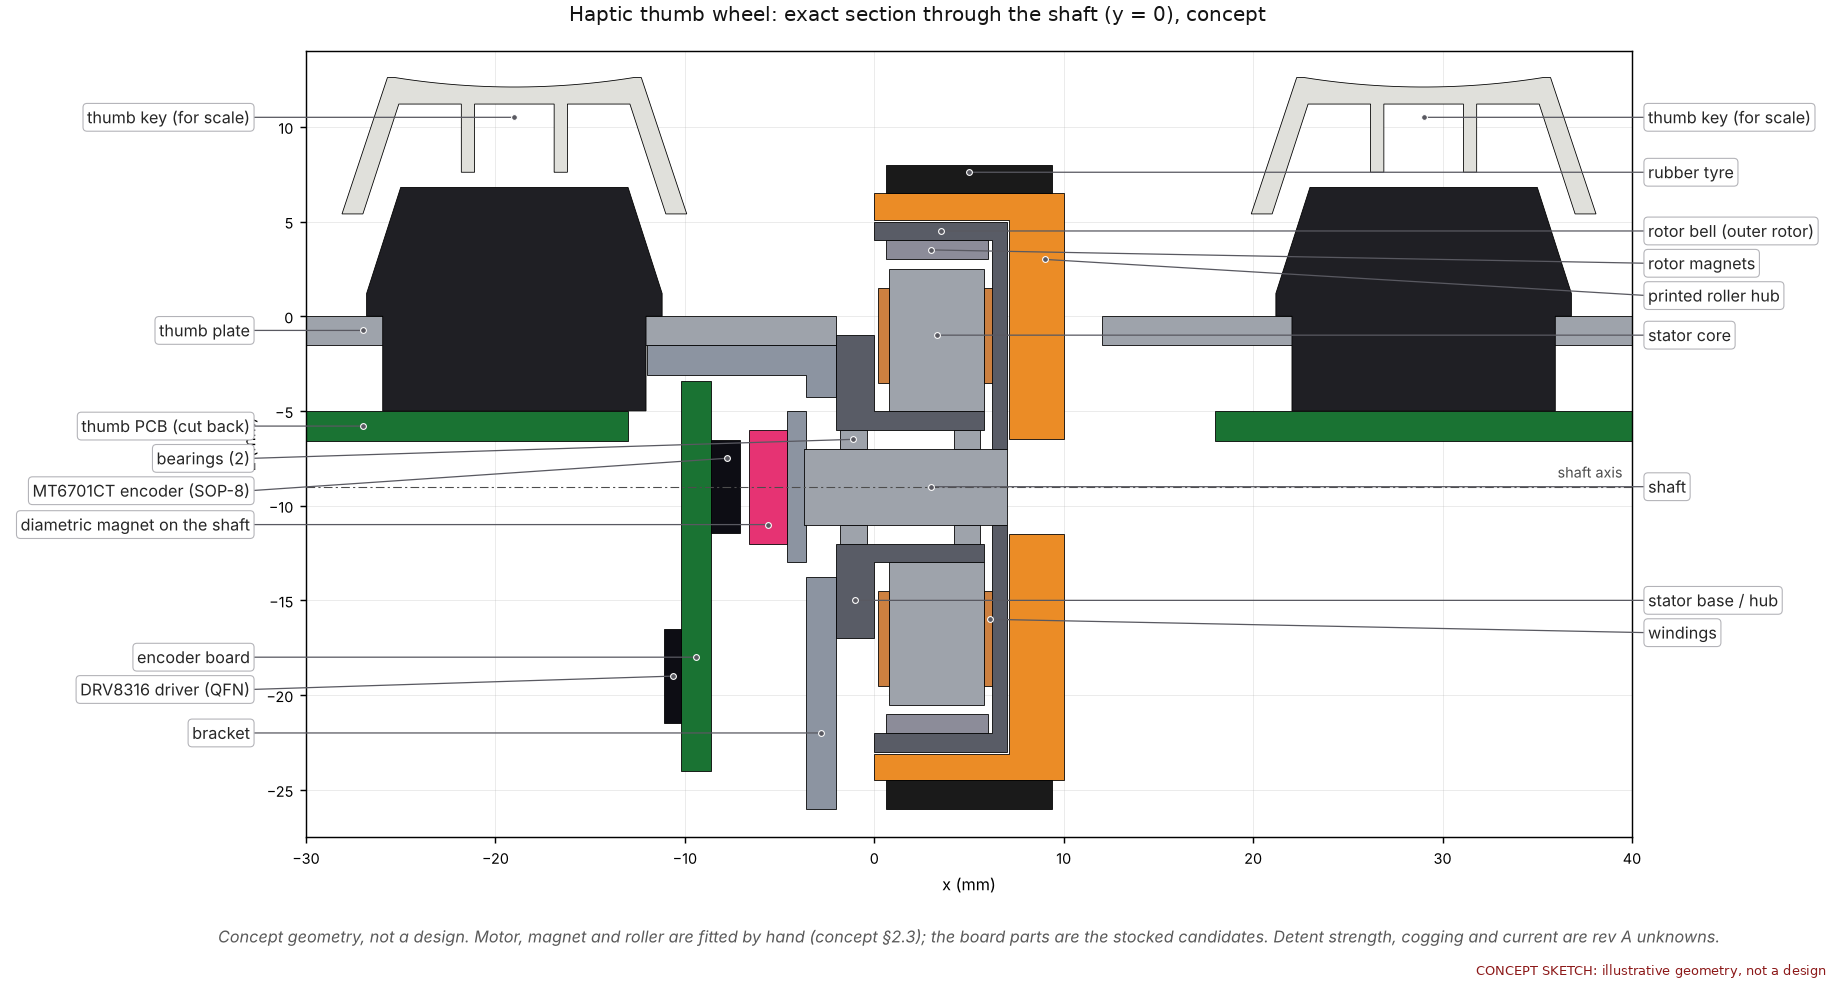
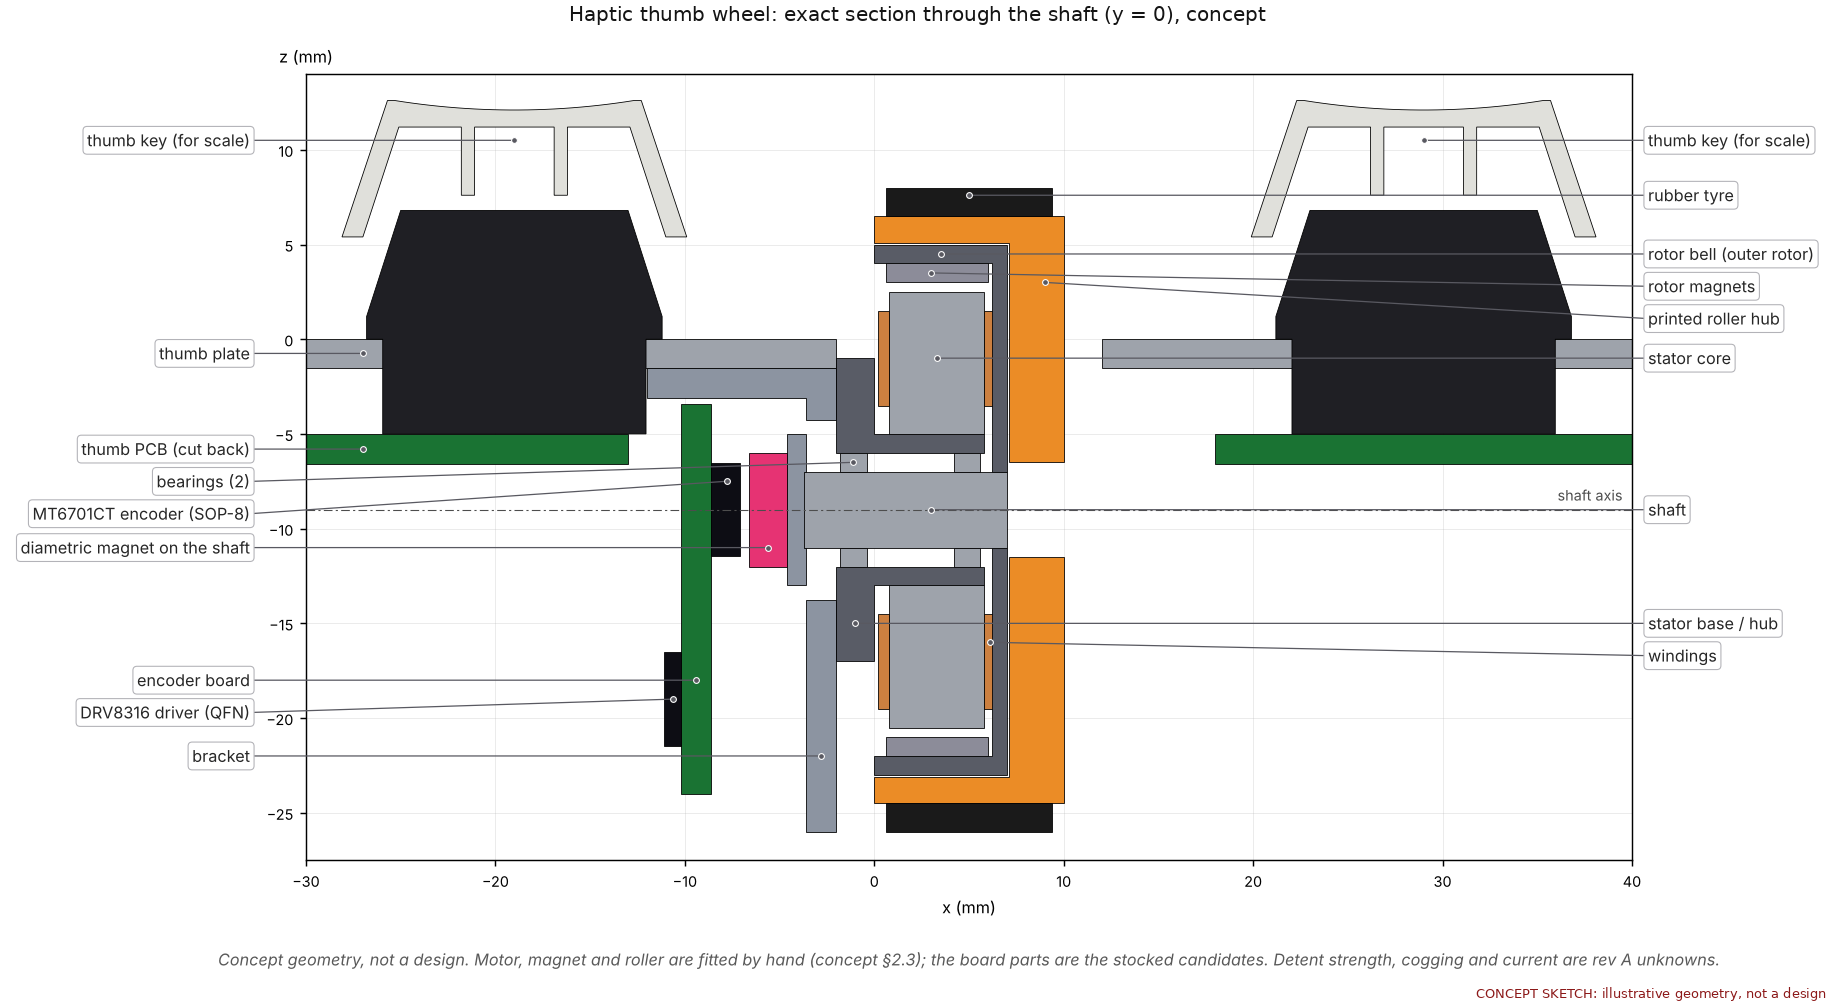
Keyboard visuals: first QA pass fixes
Visual QA fixed 14 image defects in the generator scripts (a wrong
section reference, a sign error on an axis, crossed leaders, hidden or
colliding labels, legend swatches) and refreshed the gallery copies.
Site QA fixed the mindmap's dark-mode text, subgraph titles overlapped
by node borders in three diagrams, and a dead "open it on its own" link.

A second pass (legibility, caption honesty, click-to-zoom) follows.

Claude-Session: https://claude.ai/code/session_018T6HA5VDDcFqFaRtqcECCB

diff --git a/keyboard/hardware/concept/render_keyboard.py b/keyboard/hardware/concept/render_keyboard.py
@@ -239,7 +239,8 @@ def fig_top(hl, hr, ml, mr):
         outline(ax, KM.moved([("lra", nm["LRA"], "lra")], m)[0][1], cam)
         callout(ax, t, "thumb shear key\n(dashed circle: the LRA,\ninside, under it)", t + off, ha="center")
     nm = dict((n, s) for n, s, c, g in hl.parts)
-    for tag, off in (("A", (-6, 34)), ("B", (40, 22))):
+    # A sits right of B in this view: A's label up and right, B's up and left, so the leaders do not cross
+    for tag, off in (("A", (22, 24)), ("B", (-22, 38))):
         u = outline(ax, KM.moved([("u", nm[f"USB-C {tag}"], "usb")], ml)[0][1], cam)
         c = u.mean(0)
         callout(ax, c, f"USB-C {tag} (back wall)", c + off, ha="center")
@@ -304,8 +305,8 @@ def fig_side(hl, hr):
             a = np.radians(row * col["alpha"])
             ax2.plot([0, r * np.sin(a)], [r, r - r * np.cos(a)], ls=":", lw=0.8, color=HL)
         ax2.plot([0], [r], marker="+", ms=11, mew=1.5, color=HL)
-        ax2.text(3, r + 1.5, f"flexion centre (sketch)\nR = {r:.0f} mm at the plate, {col['alpha']:.1f}° per row",
-                 fontsize=8.5, color=HL, va="bottom")
+        ax2.text(3, r + 1.5, f"flexion centre (sketch)\nR = {r:.0f} mm at the plate, {col['alpha']:.1f}° per row\n"
+                 f"(caps {KM.PITCH + 0.25:.2f} mm apart at their skirts)", fontsize=8.5, color=HL, va="bottom")
         ka = np.radians(col["alpha"])
         cap_pt = (r * np.sin(ka) + 2.0, r - r * np.cos(ka) + 12.0)
         ax2.annotate("keycaps (rest)", xy=cap_pt, xytext=(cap_pt[0] + 14, cap_pt[1] + 16), fontsize=8.5,
@@ -404,7 +405,8 @@ def fig_internals(hl):
     rows = [("column board 4", (0.5, 0.5, 1.0), "column boards: one per column,\n0.8 mm, bent to the column's arc"),
             ("column board 0", (0.5, 0.5, 1.0), "inner index column's board"),
             ("battery", (0.3, 0.3, 1.0), "LiPo battery (size not chosen)"),
-            ("link column 4", (0.5, 0.5, 0.5), "flex links from each column board\nto the main board"),
+            # a run that shows between two boards (link column 4's centre is hidden under a board)
+            ("link column 5 run", (0.5, 0.5, 0.5), "flex links from each column board\nto the main board"),
             ("LRA", (0.5, 0.5, 1.0), "coin LRA on the floor,\nunder the thumb home key"),
             ("USB-C B", (0.5, 1.0, 1.0), "USB-C A and B at the back wall\n(two-host KVM)"),
             ("MCU module", (0.5, 0.5, 1.0), "main board: MCU module\n(chip not chosen)"),
@@ -603,7 +605,7 @@ def fig_gate(hl):
     ax.set_aspect("equal")
     ax.grid(True, lw=0.3, alpha=0.5)
     ax.tick_params(labelsize=7.5)
-    ax.set_xlabel(f"across the rows at key {k.name} (mm)", fontsize=8.5)
+    ax.set_xlabel(f"across the columns at key {k.name} (mm, + toward the index column)", fontsize=8.5)
     ax.set_ylabel(f"along {k.name}'s axis, from its plate (mm)", fontsize=8.5)
     ax.set_title(f"(c) The tightest spot the gate found: key {k.name} (middle column, top row),\nwhich sits "
                  "deeper than the index column beside it (exact cut)", fontsize=11)
@@ -617,7 +619,8 @@ def fig_gate(hl):
     ax.barh(y, vals, height=0.62, color=cols, edgecolor="white", linewidth=2)
     for yi, r in zip(y, top):
         tag = "  below margin" if r["d"] < margin else ""
-        ax.text(r["d"] + 0.03, yi, f"{r['d']:.2f} mm{tag}", va="center", fontsize=8.5, color=INK)
+        ax.text(r["d"] + 0.03, yi, f"{r['d']:.2f} mm{tag}", va="center", fontsize=8.5, color=INK, zorder=5,
+                bbox=dict(boxstyle="square,pad=0.15", fc="white", ec="none"))     # over the margin line
     ax.set_yticks(y)
     ax.set_yticklabels([_row_text(r) for r in top], fontsize=8.5)
     ax.axvline(margin, color=(0.3, 0.3, 0.3), lw=1.0, ls="--")

diff --git a/keyboard/hardware/concept/render_mechanisms.py b/keyboard/hardware/concept/render_mechanisms.py
@@ -459,7 +459,7 @@ def shear_cutaway():
         ("TMAG5170 3-axis Hall sensor (VSSOP-8)\nreads Bx, By, Bz under the magnet", (1.4, -1.0, 0.9), "R"),
     ]
     tags = [("Z press", (0, 0, 26.0), 0, 14), ("X push", (-19.5, 0, 14.5), -6, 14),
-            ("Y push", (21.0, -12.0, 21.0), 10, -14)]
+            ("Y push", (21.0, -12.0, 21.0), 44, -14)]
     view3d(os.path.join(OUT, "mech_shear_key_cutaway.png"), [items, arrows], elev=20, azim=-58, labels=labels,
            tags=tags, size=(12, 8.6), zoom=0.74, max_edge=0.8,
            title="Shear key: a stem guide hung on flexure posts over a 3-axis Hall sensor (concept)")
@@ -530,7 +530,7 @@ def shear_section():
         (f"red circle: where the magnet centre\ncan go (\u00b1{lat:.1f} mm, the roof-hole stop)",
          (lat * 0.7, -lat * 0.7), "R"),
         ("dashed: TMAG5170 below (z 0-1 mm)", (1.5, -1.2), "R"),
-        ("housing", (6.9, -6.0), "R"),
+        ("housing", (6.2, -3.5), "R"),
     ]
     label2d(fig, a3, lab3, right_px=18)
     fig.canvas.draw()
@@ -604,6 +604,8 @@ def wheel_section():
     fig = plt.figure(figsize=(17, 8.4), dpi=DPI)
     zc = M.WHEEL_Z
     ax = section_axes(fig, [0.20, 0.09, 0.60, 0.84], items, Plane.XZ, ("X", "Z"), (-30.0, 40.0), (-27.5, 14.0))
+    ax.set_ylabel("")              # the left callout column would hide it: the unit goes at the top of the axis
+    ax.text(-30.0, 14.4, "z (mm)", ha="center", va="bottom", fontsize=9)
     ax.axhline(zc, color=(0.3, 0.3, 0.3), lw=0.6, ls=(0, (8, 3, 2, 3)), zorder=30)
     ax.text(39.5, zc + 0.3, "shaft axis", fontsize=8, color=(0.3, 0.3, 0.3), ha="right", va="bottom")
     labels = [
@@ -730,7 +732,7 @@ def lra_3d_panel(path):
         ("coin LRA, about 10 mm across\nand 2.7 mm thick (cut in half)", (2.0, 0.0, 3.6), "R"),
         ("slot all round the cradle", (9.2, 2.0, 2.4), "R"),
         ("case floor (printed)", (12.0, 6.0, 2.4), "R"),
-        ("cradle, printed with the case", (-6.6, 0.0, 3.0), "L"),
+        ("cradle, printed with the case", (-2.5, 0.0, 1.1), "L"),
         ("flexure arm: the only path\nfrom cradle to case", (-8.2, 0.3, 2.4), "L"),
         ("TPU foot", (-11.0, 0.0, -0.8), "L"),
         ("desk", (-12.0, -6.0, -1.5), "L"),
@@ -746,15 +748,16 @@ def lra_plan_panel(path):
     zc = 0.5 * (c["arm_z"][0] + c["arm_z"][1])
     ax = section_axes(fig, [0.34, 0.10, 0.50, 0.80], items, Plane.XY.offset(zc), ("X", "Y"), (-12.5, 12.5),
                       (-12.5, 12.5))
-    ax.set_ylabel("")
-    ax.set_title(f"plan section at z = {zc:.1f} mm, through the arms", fontsize=11)
+    ax.set_ylabel("")              # the left callout column would hide it: the unit goes at the top of the axis
+    ax.text(-12.5, 12.9, "y (mm)", ha="center", va="bottom", fontsize=9)
+    ax.set_title(f"plan section at z = {zc:.1f} mm, through the arms", fontsize=11, pad=16)
     labels = [
         ("coin LRA", (-2.0, -2.0), "L"),
         ("cradle", (-5.2, -4.0), "L"),
-        ("case floor", (-11.0, 10.0), "L"),
+        ("case floor", (-11.0, 11.5), "L"),
         ("three flexure arms, each about\n95\u00b0 of arc (illustrative)",
          (8.2 * np.cos(np.radians(150)), 8.2 * np.sin(np.radians(150))), "L"),
-        ("arm root in the floor", (9.5 * np.cos(np.radians(183)), 9.5 * np.sin(np.radians(183))), "L"),
+        ("arm root in the floor", (9.5 * np.cos(np.radians(184)), 9.5 * np.sin(np.radians(184))), "L"),
         ("slot (air)", (9.2 * np.cos(np.radians(20)), 9.2 * np.sin(np.radians(20))), "R"),
         ("arm root in the cradle", (7.2 * np.cos(np.radians(334)), 7.2 * np.sin(np.radians(334))), "R"),
     ]

diff --git a/keyboard/docs/figures/physics.py b/keyboard/docs/figures/physics.py
@@ -317,7 +317,7 @@ def fig_he_field():
           " − z/√(z²+R²) ], z from the magnet face to a point sensor on the axis.\n"
           f"Parameters (illustrative, not decisions): Br = {BR} T (about N38–N40), {HE_GAP_REST} mm from magnet "
           f"face to Hall element at rest, {HE_TRAVEL:.0f} mm to the hard stop, then a {HE_SQUASH} mm compliant zone "
-          "(concept §2.1, §7).\n"
+          "(concept §7).\n"
           "Not modelled: steel nearby, neighbouring keys' magnets, stray fields, temperature (NdFeB loses about "
           "0.1 % of Br per K), magnet tolerances, tilt.\n"
           "The noise-to-travel figures assume a 0.1 mT noise floor, only to show the scale. The sensor ranges are "
@@ -369,7 +369,7 @@ def fig_neighbour():
     axa.text(HE_TRAVEL + HE_SQUASH / 2, 0.196, "compliant\nzone", ha="center", va="top", fontsize=8, color=INK2)
     axb.text(HE_TRAVEL + HE_SQUASH / 2, 280, "compliant\nzone", ha="center", va="top", fontsize=8, color=INK2)
     axa.set_xlabel("the neighbour's travel (mm)")
-    axa.set_ylabel("change in this key's Bz (mT)")
+    axa.set_ylabel("fall in this key's Bz (mT)")
     axa.legend(loc="upper left")
     axa.text(0.08, 0.113, f"At rest the neighbours already add an offset\n(row neighbour −{-rows[0][1]:.2f} mT), "
              "which calibration removes.\nThe reading falls as a neighbour is pressed:\nits return flux opposes "
@@ -757,12 +757,12 @@ def fig_haptic():
     ax[2].plot(th, slots_profile(th), color=C3, lw=2.0)
     for i in range(9):
         dot(ax[2], i * 45, 0, C3, size=6)
-        ax[2].text(i * 45, -0.92, f"slot {i % 8 + 1}", ha="center", va="top", fontsize=8, color=INK)
     ax[2].text(0.5, 0.97, "8 slots, 45° apart: a spring into each slot, saturating 8° out;\n"
                "it snaps over to the next slot at each midpoint (the vertical jumps)",
                transform=ax[2].transAxes, ha="center", va="top", fontsize=8, color=INK2, bbox=BOX)
     ax[2].set_xlim(-8, 368)
     ax[2].set_xticks(range(0, 361, 45))
+    ax[2].set_xticklabels([f"{i * 45}\nslot {i % 8 + 1}" for i in range(9)])    # the slots sit on the ticks
     ax[2].set_xlabel("wheel angle (degrees)")
     panel_title(ax[2], "(c) Game weapon wheel: N slots (here 8)")
 

diff --git a/keyboard/hardware/concept/render_testbed.py b/keyboard/hardware/concept/render_testbed.py
@@ -443,7 +443,7 @@ def fig_top():
     callout(ax, (19.0, 19.0), "KVM (optional, ghost):\nhost-B controller,\nisolator, USB-C B", (-34, 16))
     callout(ax, (1.0, 94.5), "USB-C", (-22, 104))
     callout(ax, M.MCU_XY, "MCU: candidate\nAT32F405", (-30, 84))
-    callout(ax, (17.0, 62.0), "power + charging\n(caliper's power sheets)", (-34, 64))
+    callout(ax, (17.0, 62.0), "power + charging, battery\nconnector (caliper's power sheets)", (-34, 64))
     callout(ax, (16.0, 47.0), "injection (INJ) and\ncurrent-sense test pads", (-34, 44))
     callout(ax, (29.5, 105.0), "latency-rig header\n(marker GPIO)", (12, 124))
     note(ax, -66, -28, "Top view to scale: motherboard about 160 x 110 mm. The keycaps hide the key sensors (see the "
@@ -600,11 +600,11 @@ def fig_coil_coupon():
             ax.add_patch(Circle((lx + 1.5, y), 0.7, fc="none", ec=(0.4, 0.4, 0.4), lw=0.8, ls=(0, (2, 1.5))))
         elif kind == "ldc":
             ax.add_patch(Rectangle((lx + 0.7, y - 0.75), 1.5, 1.5, fc=(0.02, 0.02, 0.02), ec=(0.5, 0.5, 0.5), lw=0.6))
-        elif kind == "hdr":
-            ax.add_patch(Rectangle((lx + 0.3, y - 0.7), 2.4, 1.4, fc="none", ec=(0.5, 0.5, 0.5), lw=0.7,
+        elif kind == "hdr":       # a tall strip, like the header outline on the board
+            ax.add_patch(Rectangle((lx + 1.0, y - 0.8), 1.0, 1.6, fc="none", ec=(0.5, 0.5, 0.5), lw=0.7,
                                    ls=(0, (3, 2))))
-        else:
-            ax.add_patch(Rectangle((lx + 0.3, y - 0.7), 2.4, 1.4, fc="none", ec=(0.45, 0.45, 0.45), lw=0.8,
+        else:                     # a square, like the switch footprints on the board
+            ax.add_patch(Rectangle((lx + 0.75, y - 0.75), 1.5, 1.5, fc="none", ec=(0.45, 0.45, 0.45), lw=0.8,
                                    ls=(0, (1.5, 1.5))))
         ax.text(lx + 4.0, y, txt, fontsize=fs_mm(0.95), color=INK, va="center")
     # inset: one 4-layer coil taken apart layer by layer

diff --git a/keyboard/docs/research.md b/keyboard/docs/research.md
@@ -27,6 +27,8 @@ config:
   flowchart:
     nodeSpacing: 14
     rankSpacing: 40
+    # without it the top nodes' borders run through the subgraph title
+    subGraphTitleMargin: { top: 0, bottom: 8 }
 ---
 flowchart TB
   subgraph RS["Researchers (web search)"]
@@ -151,8 +153,8 @@ sceptic's 1–10 for worth building. The owner picked none of these, but the sce
 keep for the memory-LCD strip, strain analytics and the pose-aware IMU, and keep as a moonshot for the FIDO2
 authenticator, typing data designing the next PCB, the sensed column rig and the fingertip clusters.
 
-Every proposed idea with its sceptic's score, and which ones the owner picked (the figure is tall: open it on its own
-to read it at full size):
+Every proposed idea with its sceptic's score, and which ones the owner picked (the figure is tall:
+[open it on its own](figures/data_idea_scores.png) to read it at full size):
 
 ![Lollipop chart of all 54 researched keyboard ideas in five research-area groups, each row showing the sceptic's 1-10 score, sorted by score. The 12 picked ideas are blue dots with bold labels and their concept.md section, the 7 folded ideas are orange diamonds, and the 35 not-picked ideas are grey open circles. A right-hand column gives the sceptic's verdict: keep, keep as moonshot, demote or drop. No idea scores above 7, and all six 7s are picked.](figures/data_idea_scores.png)
 

diff --git a/keyboard/README.md b/keyboard/README.md
@@ -52,8 +52,10 @@ The twelve chosen features in the three groups above:
 ```mermaid
 ---
 config:
-  # the docs theme sets p { line-height: 28px }, which would clip the labels mermaid measured at 1.5
-  themeCSS: "p { line-height: inherit; }"
+  # the docs theme sets p { line-height: 28px }, which would clip the labels mermaid measured at 1.5;
+  # mermaid only colours the root's and the third branch's HTML labels, so the other branches would take the
+  # page's text colour, which is light grey on these pastel fills in dark mode
+  themeCSS: "p { line-height: inherit; } .mindmap-node .nodeLabel { color: #1a1a1a; }"
   themeVariables:
     git0: "#c3cbf2"
     gitBranchLabel0: "#1a1a1a"

diff --git a/keyboard/docs/concept.md b/keyboard/docs/concept.md
@@ -1123,6 +1123,8 @@ config:
   flowchart:
     nodeSpacing: 30
     rankSpacing: 36
+    # without it the first node's border runs through each subgraph title
+    subGraphTitleMargin: { top: 0, bottom: 8 }
 ---
 flowchart TB
   subgraph DEV["On the keyboard"]
@@ -1176,6 +1178,8 @@ config:
   flowchart:
     nodeSpacing: 18
     rankSpacing: 44
+    # without it the first coupon's border runs through the subgraph title
+    subGraphTitleMargin: { top: 0, bottom: 8 }
 ---
 flowchart LR
   MB["Motherboard<br/>AT32F405 (HS USB)<br/>USB-C, power, charging<br/>coupon connectors<br/>(analog + SPI lanes)<br/>current sense per coupon<br/>test pads, marker GPIO"]:::mb
